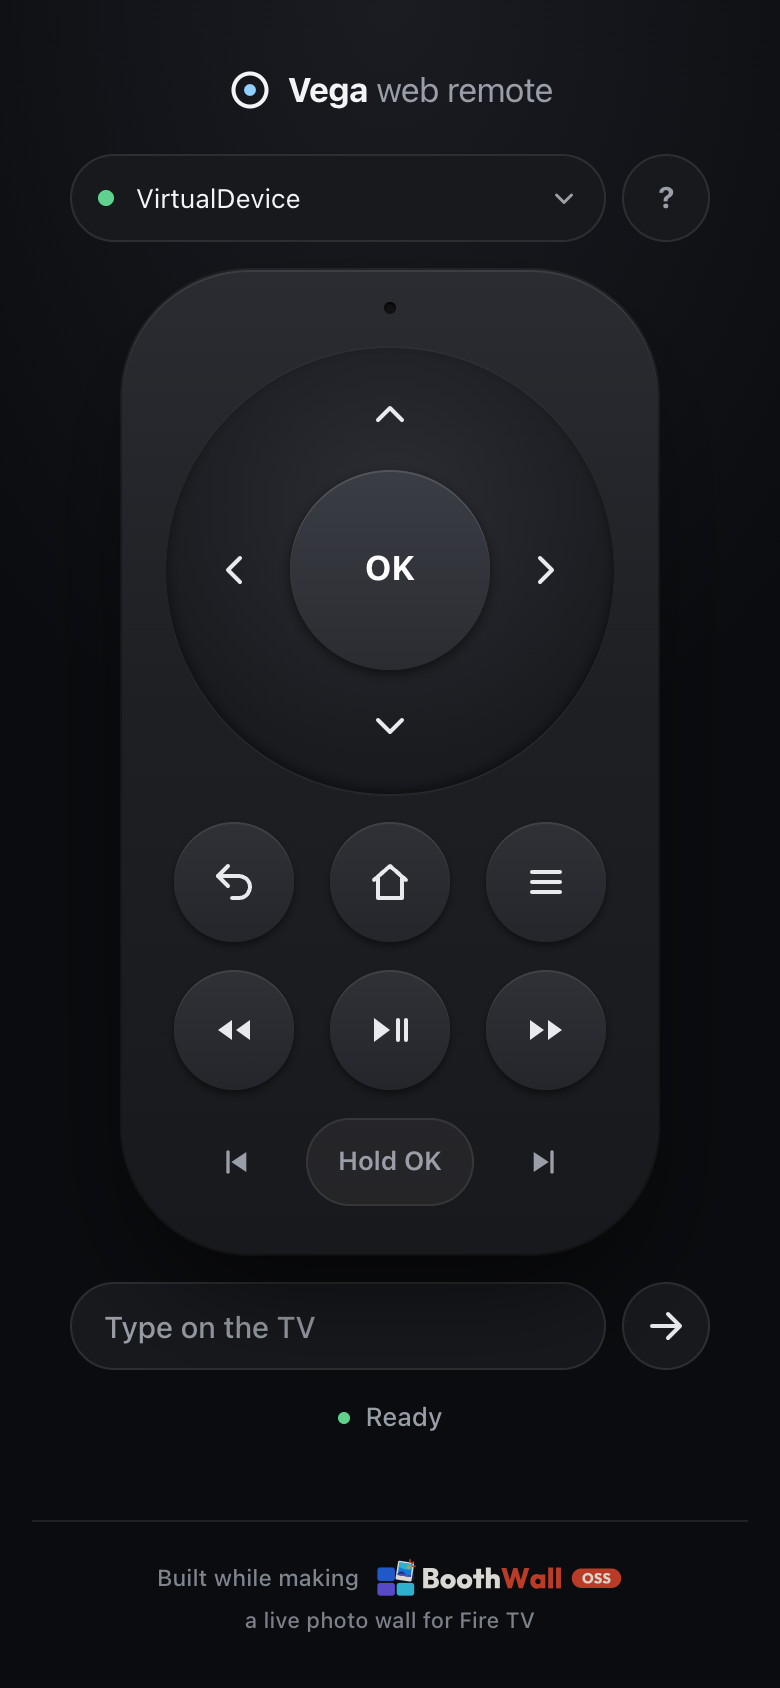
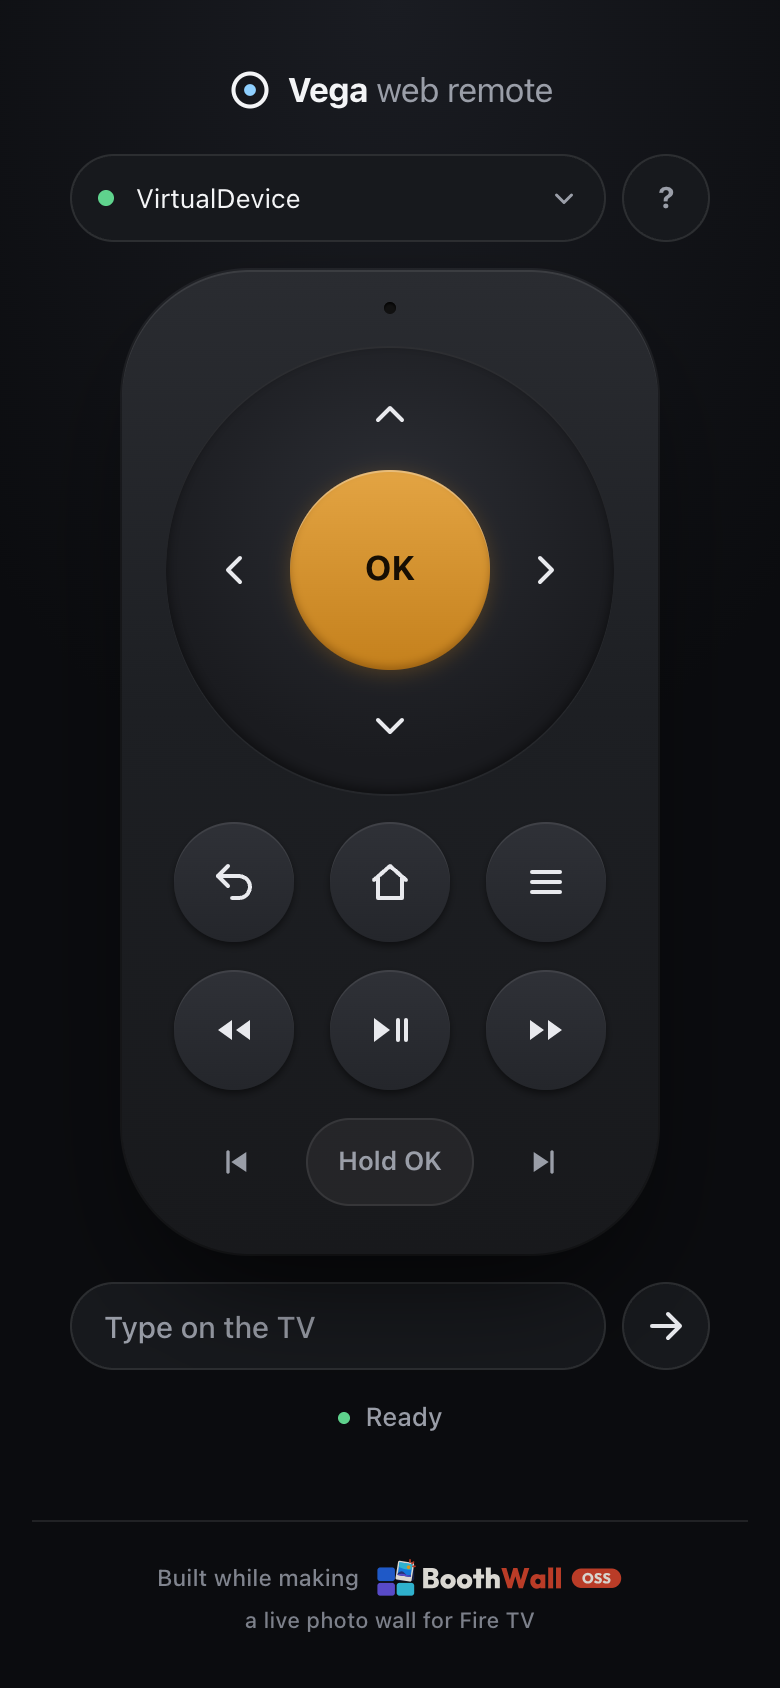
feat: a honey OK and a pressed state that keeps each key's colour (lab-r16, lab-r18), 0.2.1

Changed region(s): [[0.3692, 0.2773, 0.6462, 0.4005]]

diff --git a/src/ui/remote.css b/src/ui/remote.css
@@ -7,13 +7,14 @@
   /* remote body */
   --body: linear-gradient(180deg, #2a2c31 0%, #1d1f23 45%, #18191c 100%);
   --body-shadow: 0 30px 60px -20px rgb(0 0 0/.7), 0 0 0 1px rgb(255 255 255/.06), inset 0 1px 0 rgb(255 255 255/.08);
-  /* D-pad, OK and keys: face, edge and shadow */
+  /* D-pad, OK and keys: face, edge and shadow; --hit lights a press */
   --pad: radial-gradient(circle at 50% 35%, #2b2d33, #1a1b1f 70%); --pad-shadow: inset 0 1px 0 rgb(255 255 255/.07), inset 0 -2px 6px rgb(0 0 0/.5), 0 1px 0 rgb(255 255 255/.04);
-  --okbg: linear-gradient(180deg, #3a3d44, #2a2c31); --okink: #fff; --ok-shadow: 0 2px 6px rgb(0 0 0/.55), inset 0 1px 0 rgb(255 255 255/.12);
+  --okbg: linear-gradient(180deg, #e3a443, #c4801c); --okink: #160e03;
+  --ok-shadow: 0 2px 10px rgb(196 128 28/.28), inset 0 1px 0 rgb(255 255 255/.3), inset 0 -2px 4px rgb(80 40 0/.35); --hit: #f0b85a;
   --key: linear-gradient(180deg, #2f3137, #24262b); --key-shadow: 0 2px 4px rgb(0 0 0/.5), inset 0 1px 0 rgb(255 255 255/.08);
   --key-soft: rgb(255 255 255/.05); --key-soft-edge: rgb(255 255 255/.08);
-  /* accent, focus and press */
-  --accent: #8fd0ff; --focus: #8fd0ff; --press: #3a4652; --press-ink: #fff; --press-soft: rgb(143 208 255/.12); --press-glow: rgb(143 208 255/.22);
+  /* accent and focus */
+  --accent: #8fd0ff; --focus: #8fd0ff;
   /* LEDs and status */
   --led-off: #111; --led-off-shadow: inset 0 1px 1px rgb(0 0 0/.8); --led-press: #8fd0ff; --led-error: #ff6b6b;
   --ok-led: #5fd38d; --warn: #f2c14e; --bad: #ff6b6b;
@@ -30,4 +31,12 @@ body { background: var(--page); }
 .row { gap: 18px; }
 .key.sm { background: transparent; box-shadow: none; }
 .key.hold { background: var(--key-soft); box-shadow: inset 0 0 0 1px var(--key-soft-edge); }
-.dir.is-pressed { background: radial-gradient(circle, var(--press-glow), transparent 70%) !important; }
+/* pressed: a key looks pushed in and keeps its own colour; a D-pad edge lights its chevron and nudges it outward */
+.key.is-pressed, .ok.is-pressed { background: var(--key) !important; color: var(--icon) !important; transform: scale(.95); filter: brightness(.94);
+  box-shadow: inset 0 3px 8px rgb(0 0 0/.55), 0 0 0 1px rgb(255 255 255/.04) !important; }
+.ok.is-pressed { background: var(--okbg) !important; color: var(--okink) !important; box-shadow: inset 0 3px 10px rgb(0 0 0/.35), 0 0 18px -2px var(--hit) !important; }
+.dir.is-pressed { background: none !important; color: var(--hit) !important; transform: none; }
+.dir.is-pressed svg { filter: drop-shadow(0 0 6px var(--hit)); }
+.up.is-pressed svg { transform: translateY(-2px); } .down.is-pressed svg { transform: translateY(2px); }
+.left.is-pressed svg { transform: translateX(-2px); } .right.is-pressed svg { transform: translateX(2px); }
+.dir svg, .key, .ok { transition: transform .08s ease-out, filter .08s, box-shadow .08s; }

diff --git a/src/ui/base.css b/src/ui/base.css
@@ -43,8 +43,6 @@ svg .f { fill: currentColor; stroke: none; }
 .key.sm { width: 44px; height: 44px; color: var(--muted); } .key.sm svg { width: 20px; height: 20px; }
 .key.hold { width: auto; padding: 0 16px; border-radius: 22px; font-size: 13px; font-weight: 600; }
 
-.is-pressed { transform: scale(.94); background: var(--press) !important; color: var(--press-ink) !important; }
-.dir.is-pressed { background: var(--press-soft) !important; color: var(--accent) !important; transform: none; }
 .key:active:not(:disabled), .ok:active:not(:disabled) { transform: scale(.94); }
 
 /* text */

diff --git a/CHANGELOG.md b/CHANGELOG.md
@@ -4,6 +4,16 @@ All notable changes to this project are listed here. The format follows [Keep a 
 
 ## [Unreleased]
 
+## [0.2.1] - 2026-10-20
+
+### Changed
+
+- OK is honey gold, and a press lights in the same gold.
+
+### Fixed
+
+- A pressed key looks pushed in and keeps its colour, instead of turning flat slate blue; a pressed D-pad edge lights its arrow instead of a blurry blob.
+
 ## [0.2.0] - 2026-10-20
 
 A new look: the remote now looks and reads like a TV remote.
@@ -52,6 +62,7 @@ The first release, made during the Build, Ship, Shape: Amazon Developer Hackatho
 - Commands go to `execFile`, never a local shell. Typed text is restricted and single-quoted, because the device runs it through a shell.
 - Requests need a local Host header and, when the browser sends one, a matching Origin, so other web pages and DNS-rebound hostnames can't press keys.
 
-[Unreleased]: https://github.com/boothwall/vega-web-remote/compare/v0.2.0...HEAD
+[Unreleased]: https://github.com/boothwall/vega-web-remote/compare/v0.2.1...HEAD
+[0.2.1]: https://github.com/boothwall/vega-web-remote/compare/v0.2.0...v0.2.1
 [0.2.0]: https://github.com/boothwall/vega-web-remote/compare/v0.1.0...v0.2.0
 [0.1.0]: https://github.com/boothwall/vega-web-remote/releases/tag/v0.1.0
